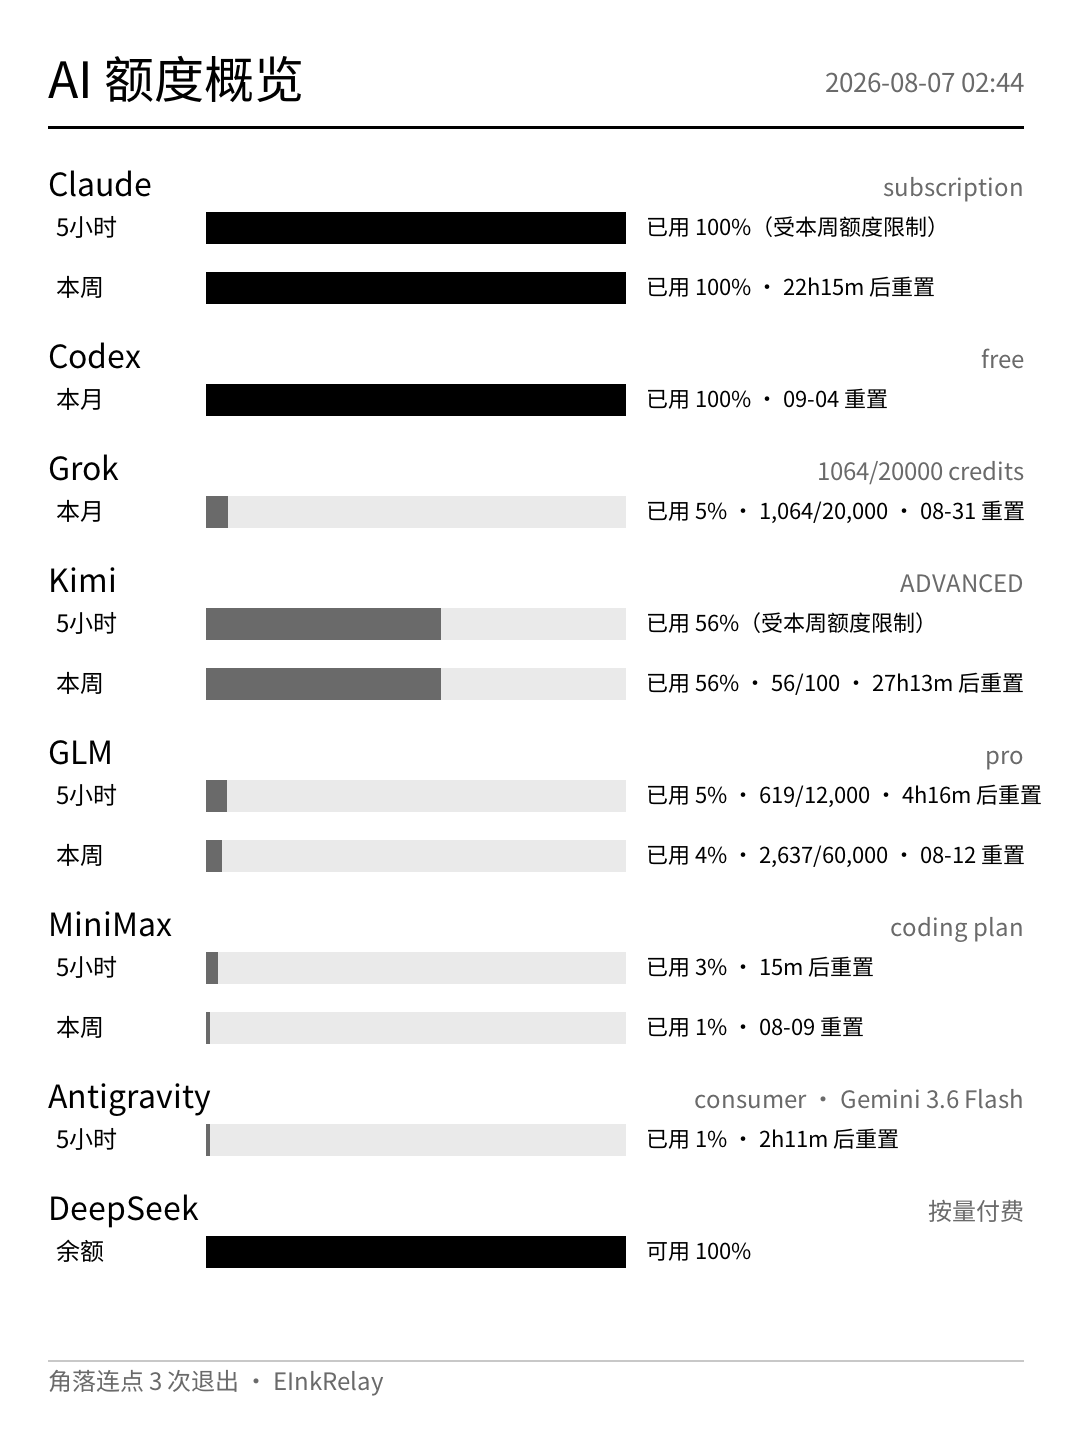
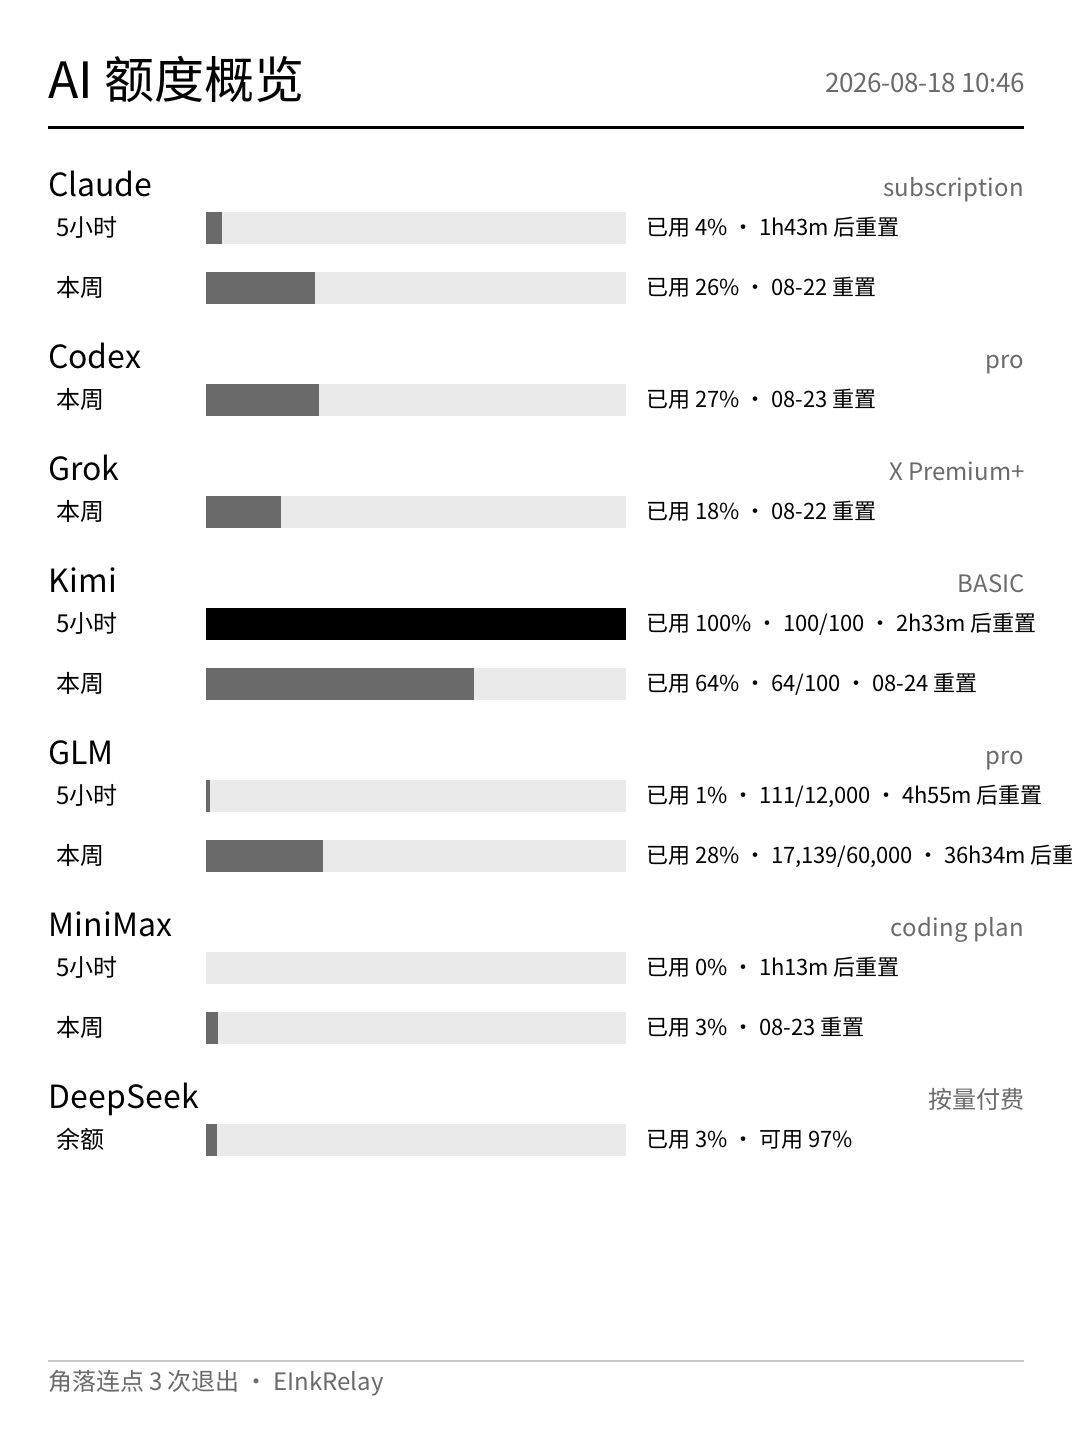
docs(quota-dashboard): 清理 Antigravity 残留文档，重生成示例产物并修正 Kimi 凭据描述

diff --git a/examples/quota-dashboard/providers.go b/examples/quota-dashboard/providers.go
@@ -758,7 +758,7 @@ func probeDeepSeek(ctx context.Context) ServiceUsage {
 }
 
 // periodRank 给窗口排层级：短周期在前。无法识别的标签按 0 处理
-// （同层不互相覆盖，例如 Antigravity 的模型族名）。
+// （同层之间不互相覆盖）。
 func periodRank(label string) int {
 	switch label {
 	case "本周":

diff --git a/docs/dashboard-example.md b/docs/dashboard-example.md
@@ -1,6 +1,6 @@
 # 示例：在 Kindle 上展示一个仪表盘
 
-这是「我想把一块仪表盘推到 Kindle 上」的完整实操示例。主示例是一个 **AI 额度仪表盘**：汇总本机 Claude、Codex、Grok、Kimi、GLM、MiniMax、Antigravity、DeepSeek 八家编程服务的额度使用情况推到设备上。它是一个纯 Go 程序，代码在 [examples/quota-dashboard/](../examples/quota-dashboard/)，同时演示了「在 Kindle 上做仪表盘」的推荐做法。
+这是「我想把一块仪表盘推到 Kindle 上」的完整实操示例。主示例是一个 **AI 额度仪表盘**：汇总本机 Claude、Codex、Grok、Kimi、GLM、MiniMax、DeepSeek 七家编程服务的额度使用情况推到设备上。它是一个纯 Go 程序，代码在 [examples/quota-dashboard/](../examples/quota-dashboard/)，同时演示了「在 Kindle 上做仪表盘」的推荐做法。
 
 面板支持两种显示格式，版式与文案完全一致，只换渲染链路：
 
@@ -20,13 +20,13 @@ export EINKRELAY_TOKEN=$(ssh root@192.168.15.244 'cat /var/local/einkrelay/token
 export DASHBOARD_FONT=/path/to/NotoSansCJKsc-Regular.otf
 
 cd examples/quota-dashboard
-go run .                          # image 模式：查询八家额度 → 渲染 PNG → 推送
+go run .                          # image 模式：查询七家额度 → 渲染 PNG → 推送
 go run . -format text             # text 模式：推送 Markdown，设备端排版
 go run . -o out.png               # image 只写本地文件（调版面时用）
 go run . -format text -o out.md   # text 只写本地 Markdown
 ```
 
-GLM、MiniMax、DeepSeek 走按量 API key，程序从环境变量 `ZHIPUAI_API_KEY`（或 `GLM_API_KEY`）、`MINIMAX_API_KEY`、`DEEPSEEK_API_KEY` 读取；其余五家用本机 CLI 已登录的凭据，不需要额外配置。某一家查不到（未登录、未设 key、网络失败）时面板照常渲染，该服务显示「查询失败」一行，不影响其他家。
+Kimi、GLM、MiniMax、DeepSeek 走按量 API key，程序从环境变量 `KIMI_API_KEY`、`ZHIPUAI_API_KEY`（或 `GLM_API_KEY`）、`MINIMAX_API_KEY`、`DEEPSEEK_API_KEY` 读取；其余三家用本机 CLI 已登录的凭据，不需要额外配置。某一家查不到（未登录、未设 key、网络失败）时面板照常渲染，该服务显示「查询失败」一行，不影响其他家。
 
 ### 快速测试显示功能（无需构建）
 
@@ -43,7 +43,7 @@ curl -X PUT -H "Authorization: Bearer $TOKEN" -H "Content-Type: text/markdown; c
   --data-binary @examples/dashboard.md "http://$KINDLE:8080/v1/display/markdown?font_size=21"
 ```
 
-## 八家的额度从哪来
+## 七家的额度从哪来
 
 所有端点都在本机实测可用；凭据只从本机既有位置读取，程序不打印、不上传它们，请求全部发往各服务的官方域名。
 
@@ -52,21 +52,18 @@ curl -X PUT -H "Authorization: Bearer $TOKEN" -H "Content-Type: text/markdown; c
 | Claude | macOS Keychain「Claude Code-credentials」（Linux 回退 `~/.claude/.credentials.json`） | `api.anthropic.com/api/oauth/usage` | 5 小时 / 本周 |
 | Codex | `~/.codex/auth.json` | `chatgpt.com/backend-api/wham/usage` | 按订阅周期 |
 | Grok | `~/.grok/auth.json` | `cli-chat-proxy.grok.com/v1/billing?format=credits`（周/月额度池，与 CLI `/usage` 同源）+ `/v1/billing`（月度 API credits）；套餐名回退 `grok.com/rest/subscriptions` | 本周（统一计费）/ 本月（API credits） |
-| Kimi | `~/.kimi-code/credentials/kimi-code.json` | `api.kimi.com/coding/v1/usages` | 5 小时 / 本周 |
+| Kimi | 环境变量 `KIMI_API_KEY` | `api.kimi.com/coding/v1/usages` | 5 小时 / 本周 |
 | GLM | 环境变量 `ZHIPUAI_API_KEY` | `open.bigmodel.cn/api/monitor/usage/quota/limit` | 5 小时 / 本周 |
 | MiniMax | 环境变量 `MINIMAX_API_KEY` | `api.minimaxi.com/v1/api/openplatform/coding_plan/remains` | 5 小时 / 本周 |
-| Antigravity | macOS Keychain（service「gemini」/ account「antigravity」，agy CLI 写入） | `daily-cloudcode-pa.googleapis.com/v1internal:fetchAvailableModels` | 按模型族，各自带重置时间 |
 | DeepSeek | 环境变量 `DEEPSEEK_API_KEY` | `api.deepseek.com/user/balance` | 无窗口；以 ¥1000 为满额基准换算已用/可用% |
 
 注意各家口径不同：
 
 - Claude / GLM / Kimi 返回「已用百分比」，MiniMax 返回「剩余百分比」（程序换算成已用），Grok 统一计费用户返回周额度池百分比（`creditUsagePercent`），另附月度 API credits 的已用/总额。面板一律统一成「已用百分比 + 重置倒计时」展示。
 - **Grok 的坑**：裸 `/v1/billing` 只给月度 API credits，对 SuperGrok / X Premium+ 等统一计费用户**不是**限制 Build 的那条额度；真正的周额度池在 `?format=credits`（与 Grok CLI `/usage` 同源，`currentPeriod.type=USAGE_PERIOD_TYPE_WEEKLY`）。程序两路都查，周额度池优先展示。`creditUsagePercent` 是 proto3 标量，已用 0% 时字段会被省略——按 0 展示，不要画成「—」。billing 里经常没有 `subscriptionTier`，套餐名回退到 `grok.com/rest/subscriptions`。
-- **绝对量（已用/总额）只有部分服务提供**：Grok 月度 API credits、Kimi、GLM（额度点数）会返回，直接并进条后文字（如「已用 53% · 53/100」）；Grok 周额度池、MiniMax（多数情况）、Claude、Codex、Antigravity 服务端只给百分比——没有绝对量不是程序没做，是上游没有数据。
+- **绝对量（已用/总额）只有部分服务提供**：Grok 月度 API credits、Kimi、GLM（额度点数）会返回，直接并进条后文字（如「已用 53% · 53/100」）；Grok 周额度池、MiniMax（多数情况）、Claude、Codex 服务端只给百分比——没有绝对量不是程序没做，是上游没有数据。
 - DeepSeek 是按量账户，没有窗口与重置概念，面板上也**不显示具体金额**：以 `deepSeekBalanceFull`（默认 ¥1000）为满额基准线性换算——余额 ≥ ¥1000 显示「已用 0% · 可用 100%」；余额 ¥900 显示「已用 10% · 可用 90%」；余额 0 显示「已用 100% · 可用 0%」。进度条与其它服务一致按「已用」填充。
 - **嵌套额度的展示规则**：5 小时 ⊂ 本周 ⊂ 本月。短周期的实际可用额度受所有更长周期约束——周额度用尽时，5 小时窗口即便自己的计数为零也照样不可用。因此短周期行的展示值取 `max(自身已用%, 更长周期已用%)`，被覆盖的行标注「受本周/本月额度限制」，自身重置时间与原始计数不再展示（能否使用取决于长周期，其数值见对应长周期行）。
-- Antigravity 的额度挂在**每个模型**上（`quotaInfo.remainingFraction`），同一模型的高/中/低推理档共享一族额度：程序按展示名聚合成模型族，然后**只展示最新模型的那一族**，与其他厂商的单一额度口径保持一致；其重置点实测固定在约 5 小时周期的边界上，因此行标签是「5小时」，模型名显示在厂商标题行。agy 的 access_token 过期时程序会用 Keychain 里的 refresh_token 现场换新（只在内存使用，不回写）；刷新所需的 OAuth client id/secret 是 Antigravity 分发给每个用户的 installed-app 凭据，程序从本机 agy 二进制里现找，不落盘在代码库中。
-- 一个实测到的坑：Antigravity 的 `v1internal` 端点对不带 `User-Agent` / `X-Goog-Api-Client` 的请求一律回 429，程序已带上。
 
 ## 两种显示格式怎么选
 
@@ -121,4 +118,4 @@ DASHBOARD_FONT=/path/to/NotoSansCJKsc-Regular.otf \
 nohup ./quota-dashboard -every 5m >> /tmp/quota-dashboard.log 2>&1 &
 ```
 
-GLM / MiniMax / DeepSeek 的 API key 从环境变量读，后台启动前确保当前 shell 已加载（如 `source ~/.zshenv`）。停止循环：`kill` 该进程即可；`nohup` 让进程在终端关闭后继续运行，但 Mac 重启后需要重新拉起（要开机自启可以自行包一层 launchd）。
+Kimi / GLM / MiniMax / DeepSeek 的 API key 从环境变量读，后台启动前确保当前 shell 已加载（如 `source ~/.zshenv`）。停止循环：`kill` 该进程即可；`nohup` 让进程在终端关闭后继续运行，但 Mac 重启后需要重新拉起（要开机自启可以自行包一层 launchd）。

diff --git a/examples/dashboard.md b/examples/dashboard.md
@@ -1,41 +1,37 @@
-# AI 额度概览 · 02:44
+# AI 额度概览 · 10:46
 
 ## Claude · subscription
 
-５小时　████████████████████ 已用 100%（受本周额度限制）
+５小时　█░░░░░░░░░░░░░░░░░░░ 已用 4% · 1h43m 后重置
 
-本周　　████████████████████ 已用 100% · 22h15m 后重置
+本周　　█████░░░░░░░░░░░░░░░ 已用 26% · 08-22 重置
 
-## Codex · free
+## Codex · pro
 
-本月　　████████████████████ 已用 100% · 09-04 重置
+本周　　█████░░░░░░░░░░░░░░░ 已用 27% · 08-23 重置
 
-## Grok · 1064/20000 credits
+## Grok · X Premium+
 
-本月　　█░░░░░░░░░░░░░░░░░░░ 已用 5% · 1,064/20,000 · 08-31 重置
+本周　　████░░░░░░░░░░░░░░░░ 已用 18% · 08-22 重置
 
-## Kimi · ADVANCED
+## Kimi · BASIC
 
-５小时　███████████░░░░░░░░░ 已用 56%（受本周额度限制）
+５小时　████████████████████ 已用 100% · 100/100 · 2h34m 后重置
 
-本周　　███████████░░░░░░░░░ 已用 56% · 56/100 · 27h13m 后重置
+本周　　█████████████░░░░░░░ 已用 64% · 64/100 · 08-24 重置
 
 ## GLM · pro
 
-５小时　█░░░░░░░░░░░░░░░░░░░ 已用 5% · 619/12,000 · 4h16m 后重置
+５小时　░░░░░░░░░░░░░░░░░░░░ 已用 1% · 111/12,000 · 4h55m 后重置
 
-本周　　█░░░░░░░░░░░░░░░░░░░ 已用 4% · 2,637/60,000 · 08-12 重置
+本周　　██████░░░░░░░░░░░░░░ 已用 28% · 17,139/60,000 · 36h34m 后重置
 
 ## MiniMax · coding plan
 
-５小时　█░░░░░░░░░░░░░░░░░░░ 已用 3% · 15m 后重置
+５小时　░░░░░░░░░░░░░░░░░░░░ 已用 0% · 1h13m 后重置
 
-本周　　░░░░░░░░░░░░░░░░░░░░ 已用 1% · 08-09 重置
-
-## Antigravity · consumer · Gemini 3.6 Flash
-
-５小时　░░░░░░░░░░░░░░░░░░░░ 已用 1% · 2h11m 后重置
+本周　　█░░░░░░░░░░░░░░░░░░░ 已用 3% · 08-23 重置
 
 ## DeepSeek · 按量付费
 
-余额　　████████████████████ 可用 100%
+余额　　█░░░░░░░░░░░░░░░░░░░ 已用 3% · 可用 97%

diff --git a/README.md b/README.md
@@ -2,7 +2,7 @@
 
 EInkRelay 是 Kindle Paperwhite 4（固件 5.18.1.1.1、ARMv7）上的本地 REST 全屏显示服务。它是纯 Go、`CGO_ENABLED=0` 的单一可执行文件：`guard` 与 `serve` 分别运行在独立进程中，前者监督后者、处理触摸角落退出和原生 UI 恢复。本项目不依赖 KUAL，也不需要 Mac、树莓派或云端常驻程序；USBNetwork 与 Wi-Fi 均访问同一监听器和同一版本化 API。
 
-许可证为 [Apache-2.0](LICENSE)。完整机器可读接口见 [docs/openapi.yaml](docs/openapi.yaml)，日常调用的可执行示例见 [docs/api-examples.md](docs/api-examples.md)，真实场景示例（把本机 Claude / Codex / Grok / Kimi / GLM / MiniMax / Antigravity / DeepSeek 的额度使用情况做成仪表盘推到 Kindle，[examples/quota-dashboard/](examples/quota-dashboard/) 是可运行的纯 Go 程序）见 [docs/dashboard-example.md](docs/dashboard-example.md)，运行参数见 [docs/configuration.md](docs/configuration.md)，第三方声明见 [docs/third-party.md](docs/third-party.md)。
+许可证为 [Apache-2.0](LICENSE)。完整机器可读接口见 [docs/openapi.yaml](docs/openapi.yaml)，日常调用的可执行示例见 [docs/api-examples.md](docs/api-examples.md)，真实场景示例（把本机 Claude / Codex / Grok / Kimi / GLM / MiniMax / DeepSeek 的额度使用情况做成仪表盘推到 Kindle，[examples/quota-dashboard/](examples/quota-dashboard/) 是可运行的纯 Go 程序）见 [docs/dashboard-example.md](docs/dashboard-example.md)，运行参数见 [docs/configuration.md](docs/configuration.md)，第三方声明见 [docs/third-party.md](docs/third-party.md)。
 
 可复现 release 构建见 [docs/release-build.md](docs/release-build.md)。
 
